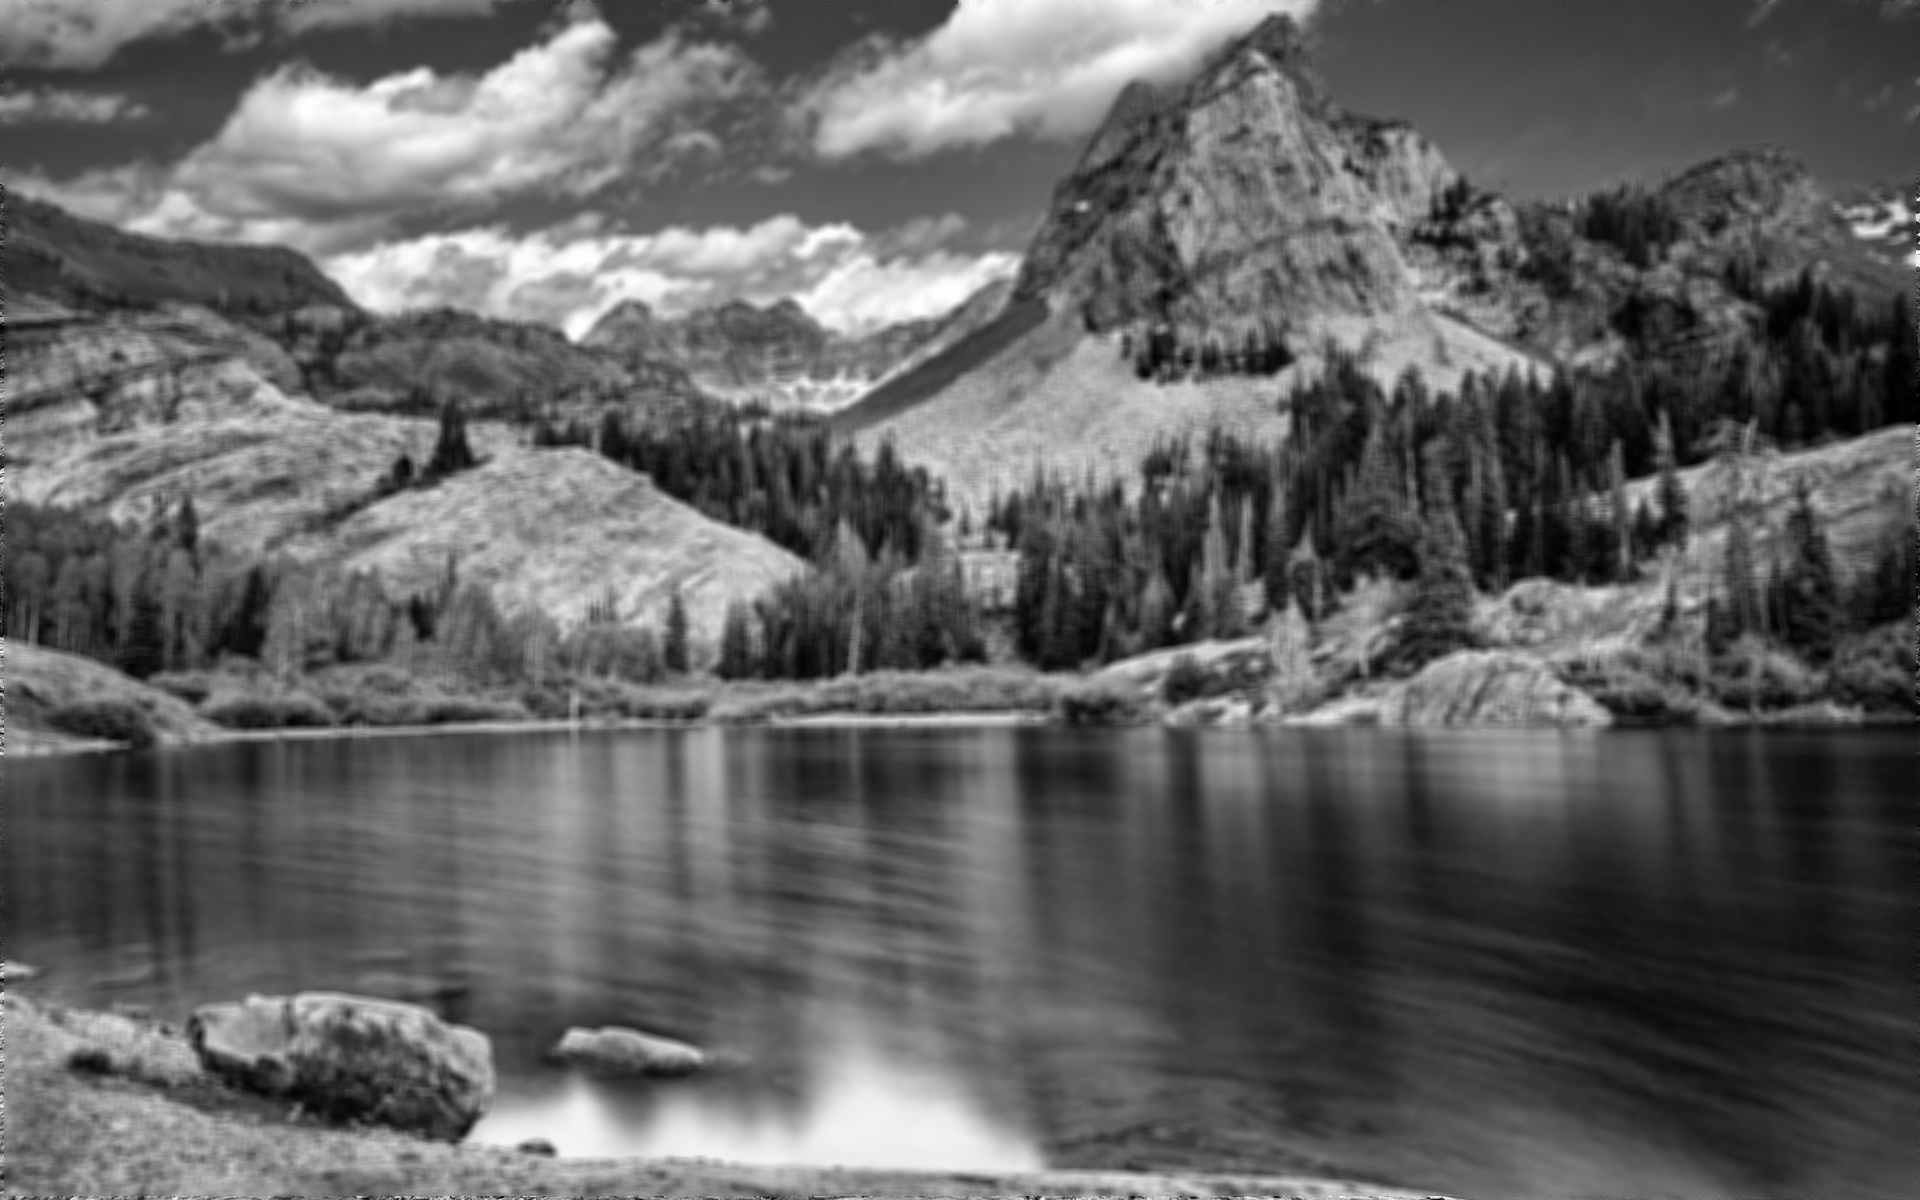
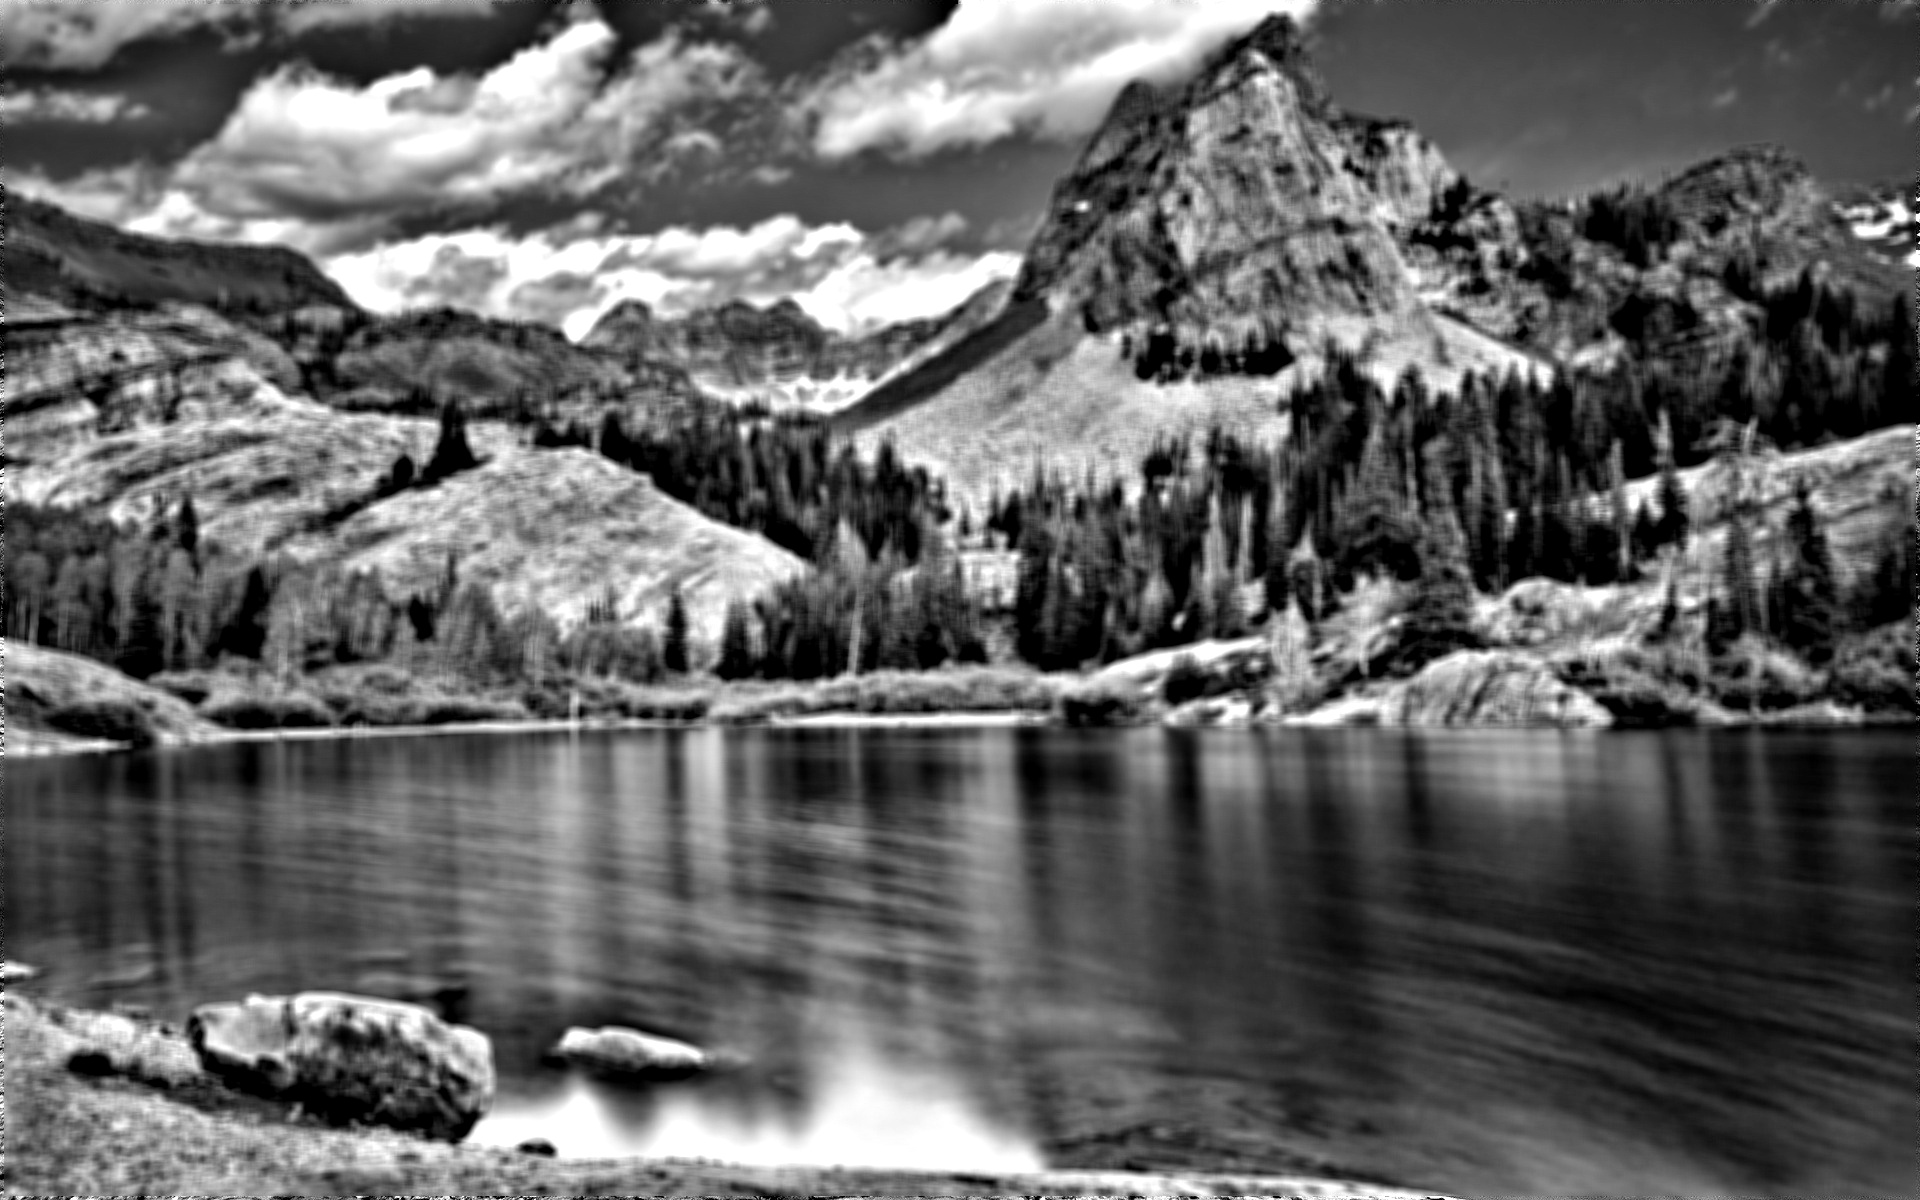
Finished Detection

diff --git a/src/Noise.java b/src/Noise.java
@@ -1,6 +1,7 @@
 import org.opencv.core.Core;
 import org.opencv.core.CvType;
 import org.opencv.core.Mat;
+import org.opencv.core.MatOfDouble;
 import org.opencv.core.Size;
 import org.opencv.imgcodecs.Imgcodecs;
 import org.opencv.imgproc.Imgproc;
@@ -32,7 +33,50 @@ public class Noise {
 		variance /= 9;
 		return variance;
 	}
+	
+	//Sobel Edge Detection
+	public static Mat SobelDetector(Mat img) {
+		Mat result = img.clone();
+		Mat Gy = new Mat();
+		Mat Gx = new Mat();
+		Mat GyAbs = new Mat();
+		Mat GxAbs = new Mat();
 		
+		Imgproc.Sobel(img, Gx, CvType.CV_16S, 1, 0, 3);
+		Imgproc.Sobel(img, Gy, CvType.CV_16S, 0, 1, 3);
+		
+        Core.convertScaleAbs(Gx, GxAbs);
+        Core.convertScaleAbs(Gy, GyAbs);
+		
+        Core.addWeighted(GxAbs, 0.5, GyAbs, 0.5, 0, result);
+		return result;
+	}
+	
+	//UnSharp Filter
+	public static Mat unsharpFilter(Mat img) {
+		Mat result = img.clone();
+		Mat smoothed = new Mat();
+//		Mat edge = SobelDetector(img);
+//		Core.addWeighted(img, 1, edge, -0.7, 0, result);
+		Imgproc.blur(img, smoothed, new Size(5, 5));
+		Core.addWeighted(img, 1.7, smoothed, -0.7, 0, result);
+		return result;
+	}
+	
+	//Calculate Blur
+	public static double calculateBlur(Mat img) {
+		double blur = 0.0;
+		Mat meanMatrix = new Mat();
+		Imgproc.blur(img, meanMatrix, new Size(3, 3));
+		for (int i = 1; i < img.rows() - 1; i++) {
+			for (int j = 1; j < img.cols() - 1; j++) {
+				double variance = calculateVariance(img, meanMatrix.get(i, j)[0], i, j);
+				if(variance <= 50) blur++;
+			}
+		}
+		return (blur/(img.cols()*img.rows()))*100.0;
+	}
+	
 	//Applying median filter 3x3
 	public static Mat medianFilter(Mat img) {
 		Mat result = img.clone();
@@ -104,16 +148,19 @@ public class Noise {
 			result = medianFilter(result);
 			System.out.println("Median Filter is applied");
 		}
-		
-		/*
-		 * 
-		 * Blur Part Here
-		 * 
-		 * */
+			
+		double blurry = calculateBlur(SobelDetector(result));
+		System.out.println("Blurry Pixels: "+blurry+"%");
+		if(blurry > 75.0) {
+			result = unsharpFilter(result);
+			System.out.println("Unsharp Filter is applied");
+			System.out.println("Unsharp Filter is applied After" + calculateBlur(SobelDetector(result)));
+
+
+		}
 		
 		double intensityRange = checkRange(result);
 		System.out.println("Color Range from 0-255: "+intensityRange+"%");
-		
 		if(intensityRange < 50.0) {
 			result = contrastStretch(result);
 			System.out.println("Contrast Stretching is applied");
